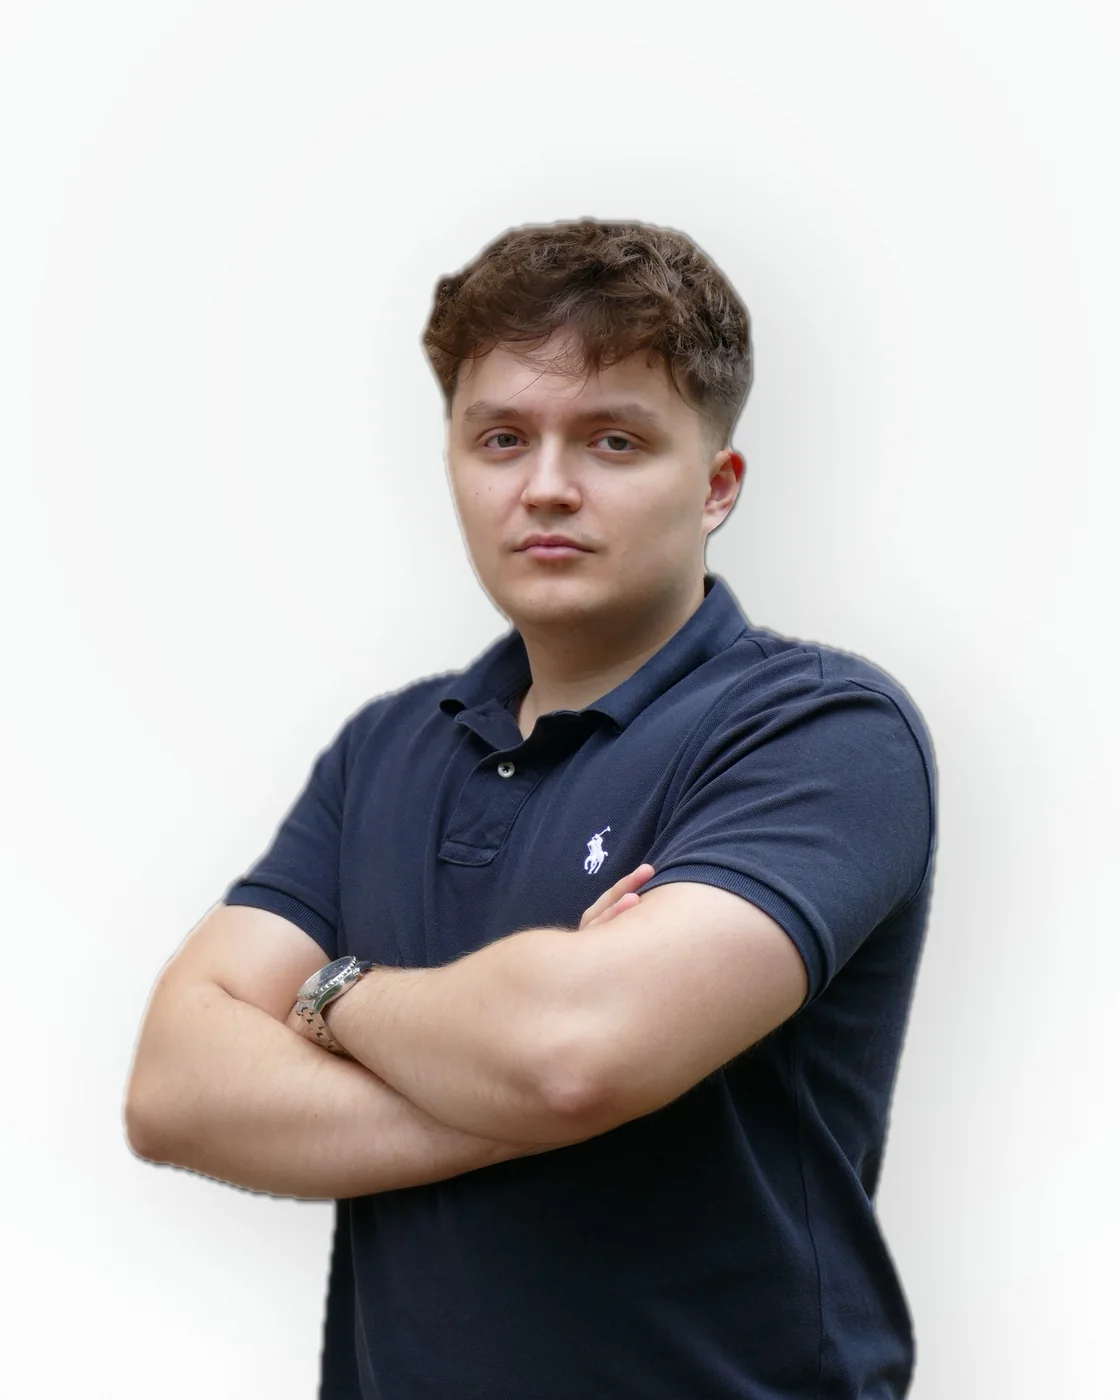
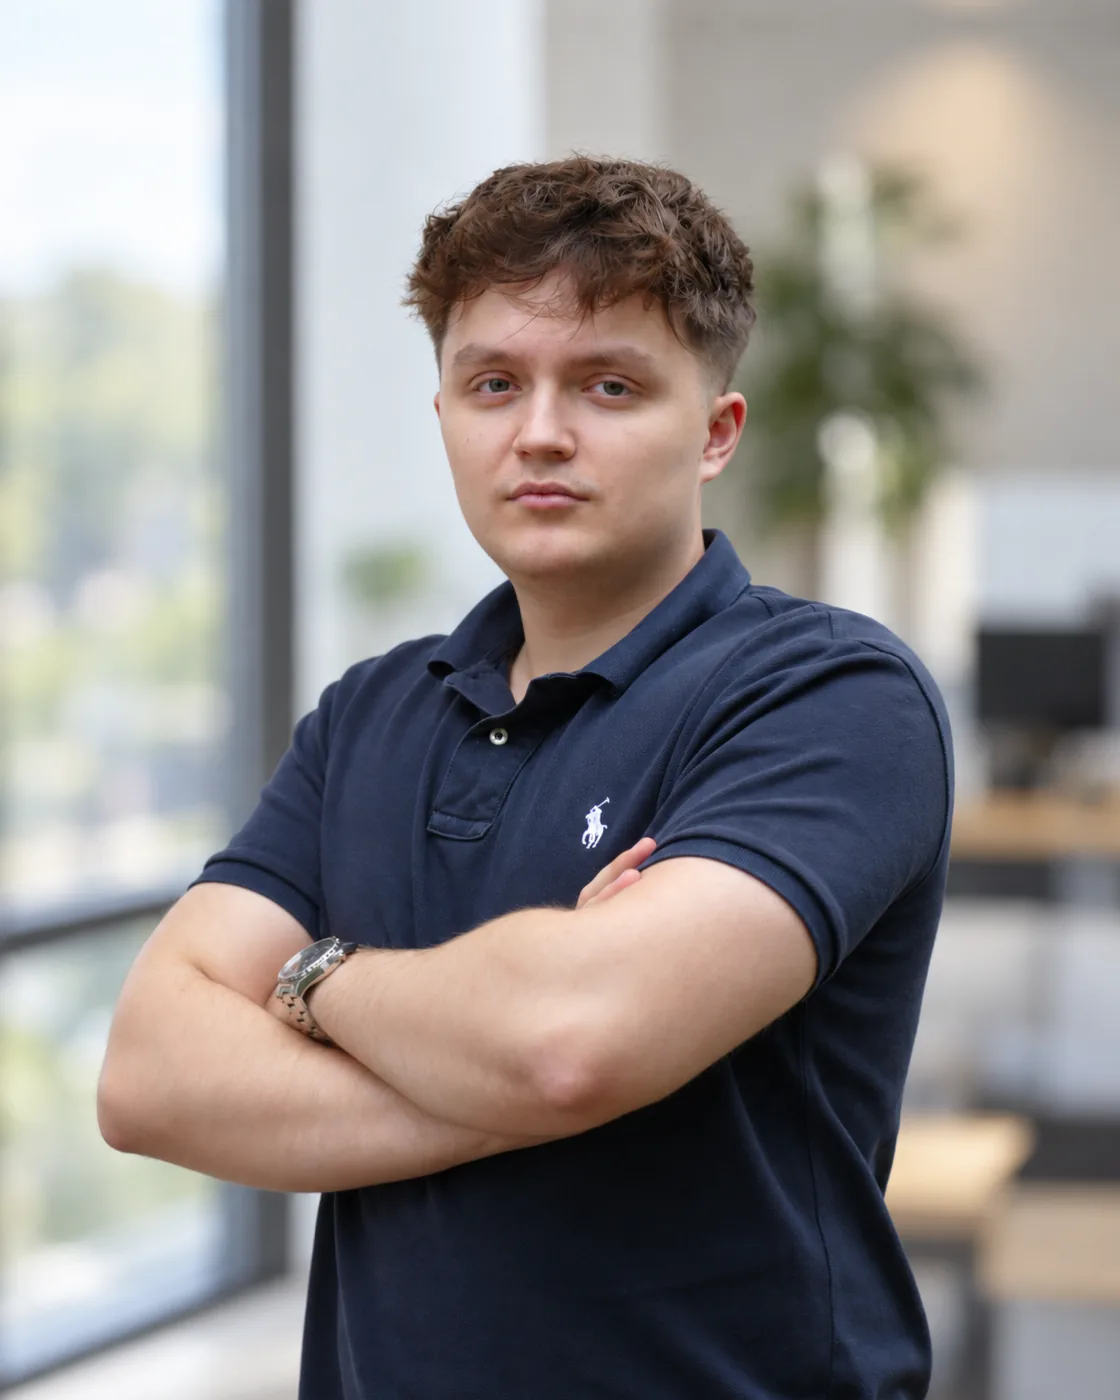
Demos shown as unnamed concepts, interim founder portraits, unique anchor id for the demo form
- demos: DEFAULT_DISCLOSURE is now concept; no company name, host or link in the
  section, the page source or llms.txt
- team: interim portraits (interior background on light theme, brand green on
  dark), eye line aligned between the two, 47-63 KB each
- fix: section and lead form both rendered id="dema"

diff --git a/src/components/featured-work.tsx b/src/components/featured-work.tsx
@@ -224,8 +224,8 @@ export default function FeaturedWork({ demoCount, hideCta = false }: { demoCount
               <dl className="mt-8 grid max-w-xl grid-cols-3 gap-4">
                 {[
                   [String(projects.length), lang === "pl" ? "realizacji" : "projects"],
-                  [String(demoCount), lang === "pl" ? "dem stron dla firm" : "website demos"],
-                  [String(projects.length + demoCount), lang === "pl" ? "projektów do kliknięcia" : "live links to click"],
+                  [String(demoCount), lang === "pl" ? "koncepcji stron dla firm" : "website concepts"],
+                  [String(projects.length + demoCount), lang === "pl" ? "projektów łącznie" : "projects in total"],
                 ].map(([value, label]) => (
                   <div key={label} className="border-t border-outline-variant/50 pt-3">
                     <dt className="font-headline text-3xl font-bold tracking-tight text-on-surface tabular-nums md:text-4xl">{value}</dt>

diff --git a/src/lib/demos.ts b/src/lib/demos.ts
@@ -60,10 +60,11 @@ export interface Demo {
 
 export type DemoDisclosure = "named" | "concept";
 
-// The owner's decision, in one place. "named" matches what has been live since
-// 2026-09-14; switching to "concept" anonymises every demo that has no
-// per-demo override.
-export const DEFAULT_DISCLOSURE: DemoDisclosure = "named";
+// The owner's decision, in one place (2026-10-01): we have no consent to show
+// these companies by name, so every demo is an unnamed concept. Set
+// `disclosure: "named"` on a single demo once its company agrees in writing
+// or becomes a client.
+export const DEFAULT_DISCLOSURE: DemoDisclosure = "concept";
 
 // What the page, the schema and llms.txt are allowed to know about a demo.
 export interface DemoView {

diff --git a/src/components/demos/demos-section.tsx b/src/components/demos/demos-section.tsx
@@ -107,7 +107,7 @@ export default function DemosSection({ demos }: { demos: DemoView[] }) {
             <h2 className="mt-5 max-w-2xl font-headline text-4xl font-bold leading-tight tracking-tight md:text-5xl">{t("demos.cta.title")}</h2>
             <p className="mt-5 max-w-xl text-base font-light leading-relaxed text-[#DAF1DE]/75 md:text-lg">{t("demos.cta.lead")}</p>
           </div>
-          <CompactLeadForm bare formId="dema" projectType={t("demos.form.projectType")} heading={t("demos.hero.primaryCta")} />
+          <CompactLeadForm bare formId="dema" anchorId="dema-formularz" projectType={t("demos.form.projectType")} heading={t("demos.hero.primaryCta")} />
         </div>
       </section>
     </>

diff --git a/src/app/projekty/page.tsx b/src/app/projekty/page.tsx
@@ -16,7 +16,7 @@ import {
 const PATH = "/projekty";
 const demos = demoViews();
 const TITLE = "Projekty, realizacje i dema stron | Programo";
-const DESCRIPTION = `Portfolio Programo: ${projects.length} realizacji (aplikacje Jedmar, CRM Estalo, strony i kampanie) oraz ${demos.length} dem stron dla firm. Każdy projekt możesz otworzyć.`;
+const DESCRIPTION = `Portfolio Programo: ${projects.length} realizacji (aplikacje Jedmar, CRM Estalo, strony i kampanie) oraz ${demos.length} koncepcji stron dla firm z różnych branż. Realizacje możesz otworzyć i sprawdzić.`;
 
 // /dema was merged into this route (2026-09-28) — its item list lives here now,
 // as #demo-list on this page.

diff --git a/src/lib/schema/route-dates.ts b/src/lib/schema/route-dates.ts
@@ -20,10 +20,10 @@ export const STATIC_ROUTE_UPDATED_AT: Record<string, string> = {
   "/": "2026-10-01T11:13:15+02:00",
   "/oferta": "2026-08-03T20:20:31+02:00",
   "/cennik": "2026-10-01T11:13:15+02:00",
-  "/projekty": "2026-10-01T11:13:15+02:00",
-  "/o-nas": "2026-08-03T20:33:18+02:00",
+  "/projekty": "2026-10-01T12:13:58+02:00",
+  "/o-nas": "2026-10-01T12:13:58+02:00",
   "/stack": "2026-08-03T16:23:25+02:00",
-  "/kontakt": "2026-08-03T16:23:25+02:00",
+  "/kontakt": "2026-10-01T12:13:58+02:00",
   "/polityka-prywatnosci": "2026-08-03T20:48:06+02:00",
   "/software-house-poznan": "2026-08-03T16:23:25+02:00",
   "/sklepy-internetowe": "2026-08-03T16:23:25+02:00",

diff --git a/docs/plans/odswiezenie-portfolio-seo-konwersja-2026-10.md b/docs/plans/odswiezenie-portfolio-seo-konwersja-2026-10.md
@@ -239,3 +239,14 @@ Do sprawdzenia za 4 tygodnie w Search Console: wyświetlenia i pozycje nowych ad
   `docs/ochrona-formularzy-2026-10.md`;
 - lista ujęć na sesję 2.10: `docs/sesja-zdjeciowa-2026-10-02.md`. Warianty portretów do wyboru:
   `~/Programo/marketing/portrety/2026-10-01-warianty/`. Na stronę trafia dopiero wybrany.
+
+### 1.10.2026, wdrożenie 4 (decyzje przekazane przez sesję prowadzącą dzień)
+
+- dema w trybie koncepcyjnym: `DEFAULT_DISCLOSURE = "concept"`, 12 kart bez nazw, hostów i linków (Życie
+  Stolicy i KS Posnania wypadają, bo nazwy nie da się wyciąć z kadru). Sprawdzone: żadna nazwa ani host
+  dema nie występuje w tekście sekcji, w źródle `/projekty` ani w `llms.txt`. Powrót do nazwy dla jednej
+  firmy: `disclosure: "named"` przy jej wpisie w `src/lib/demos.ts`;
+- portrety przejściowe: wariant C (wnętrze) w jasnym motywie, B (zieleń marki) w ciemnym, dla obu osób,
+  oczy na tej samej wysokości, 47–63 KB na plik. Źródła i pozostałe warianty:
+  `~/Programo/marketing/portrety/2026-10-01-warianty/`. Do podmiany po sesji 2.10;
+- naprawiony zdublowany `id="dema"` (sekcja i formularz miały to samo id).
